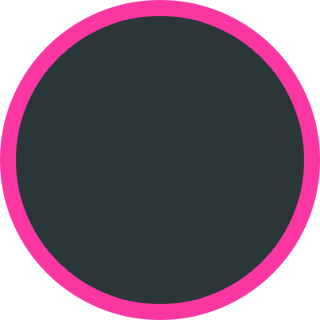
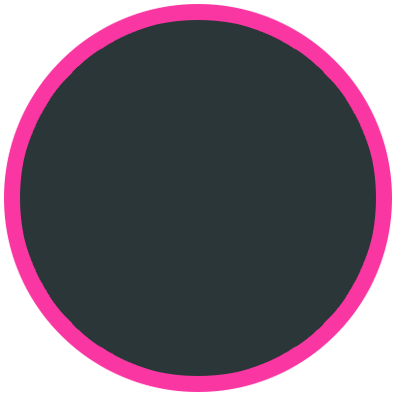
Add files via upload

diff --git a/fall-guys-gpv/fall-guys-gpv.css b/fall-guys-gpv/fall-guys-gpv.css
@@ -82,8 +82,8 @@
 .custom .stick.left{
     position: absolute;
     background: url(sticks.png) no-repeat;
-    height: 320px;
-    width: 320px;
-    top: 200px;
-    left: 139px;
+    height: 396px;
+    width: 396px;
+    top: 166px;
+    left: 105px;
 }
